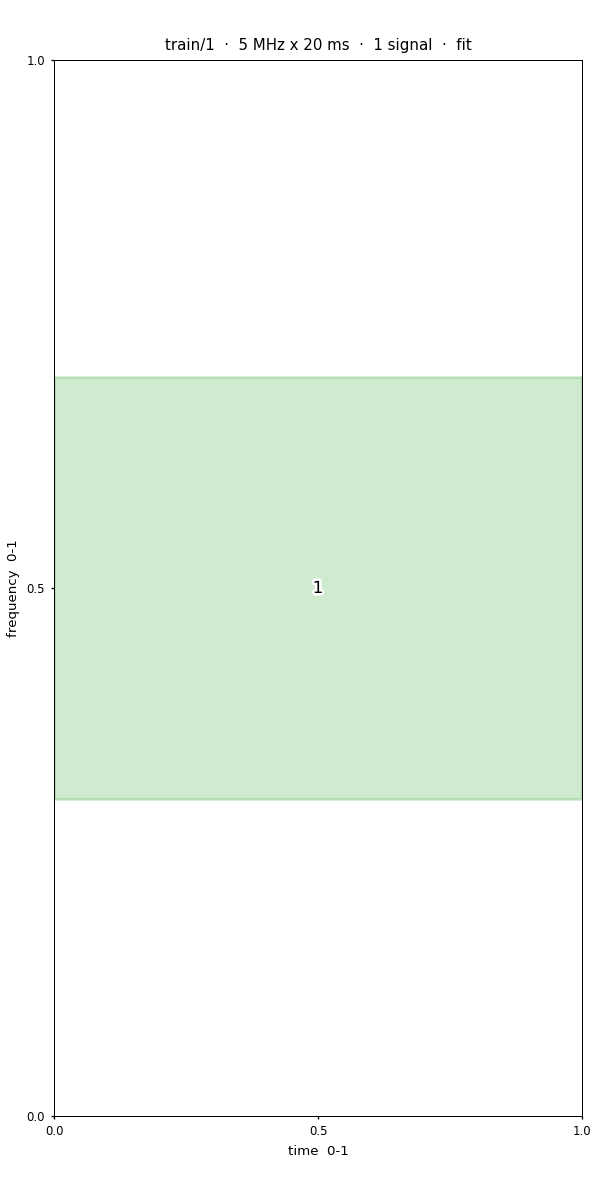
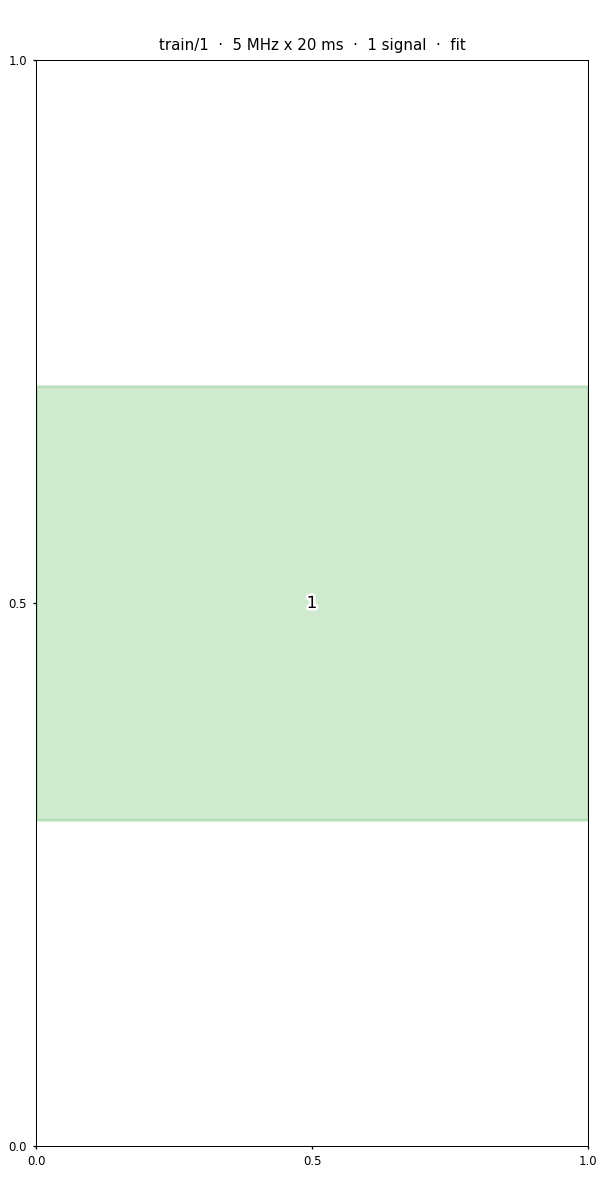
style: drop axis titles from label schematics (ticks only)

diff --git a/reports/label_schematic_browser.html b/reports/label_schematic_browser.html
@@ -105,8 +105,6 @@ function render(){
     mk('text',{x:X(v),y:H-14,'font-size':10,'text-anchor':'middle',fill:'#888'}).textContent=v;
     mk('text',{x:PL-10,y:Y(v)+3,'font-size':10,'text-anchor':'end',fill:'#888'}).textContent=v;
   });
-  mk('text',{x:PL+PW/2,y:H-2,'font-size':10,'text-anchor':'middle',fill:'#666'}).textContent='time 0-1';
-  mk('text',{x:12,y:PT+PH/2,'font-size':10,'text-anchor':'middle',fill:'#666',transform:`rotate(-90 12 ${PT+PH/2})`}).textContent='freq 0-1';
 
   // overlap pairs
   const pairs=[];

diff --git a/scripts/plot_label_schematic.py b/scripts/plot_label_schematic.py
@@ -92,14 +92,12 @@ def load_samples(splits: list[str]) -> list[dict]:
 
 def render_static(sample: dict, path: Path, dpi: int = 120) -> None:
     fig = plt.figure(figsize=(5, 5 * ASPECT))
-    ax = fig.add_axes([0.09, 0.07, 0.88, 0.88])
+    ax = fig.add_axes([0.06, 0.045, 0.92, 0.905])
     ax.set_xlim(0, 1)
     ax.set_ylim(0, 1)
     ax.set_xticks([0, 0.5, 1])
     ax.set_yticks([0, 0.5, 1])
     ax.tick_params(labelsize=7, length=2)
-    ax.set_xlabel("time  0-1", fontsize=8)
-    ax.set_ylabel("frequency  0-1", fontsize=8)
     for sp in ax.spines.values():
         sp.set_linewidth(0.6)
     ax.set_title(
@@ -244,8 +242,6 @@ function render(){
     mk('text',{x:X(v),y:H-14,'font-size':10,'text-anchor':'middle',fill:'#888'}).textContent=v;
     mk('text',{x:PL-10,y:Y(v)+3,'font-size':10,'text-anchor':'end',fill:'#888'}).textContent=v;
   });
-  mk('text',{x:PL+PW/2,y:H-2,'font-size':10,'text-anchor':'middle',fill:'#666'}).textContent='time 0-1';
-  mk('text',{x:12,y:PT+PH/2,'font-size':10,'text-anchor':'middle',fill:'#666',transform:`rotate(-90 12 ${PT+PH/2})`}).textContent='freq 0-1';
 
   // overlap pairs
   const pairs=[];
